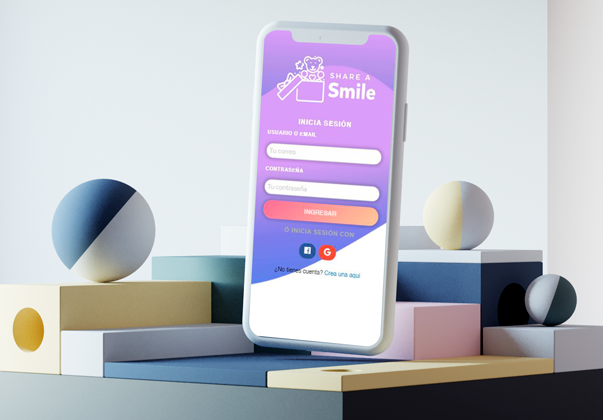
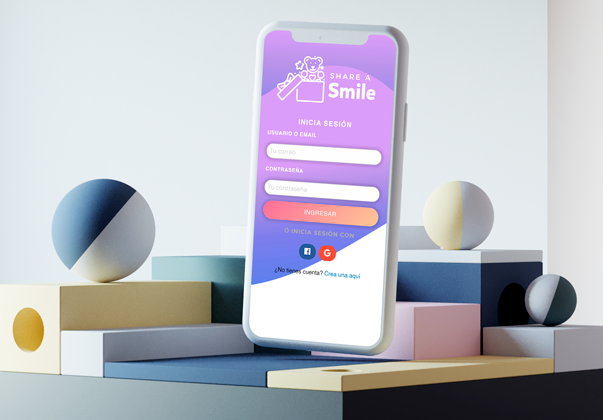
fix ortography and change images quality

diff --git a/src/Home/Projects.js b/src/Home/Projects.js
@@ -1,7 +1,6 @@
 import React from 'react';
 import './styles/projects.css';
-import {scroll} from './Images/scroll.png'
-//import ImagesButton from './ImagesButton'
+//import {scroll} from './Images/scroll.png'
 import ImagesWhite from './ImagesWhite'
 import ImagesColor from './ImagesColor'
 
@@ -23,7 +22,7 @@ export class Projects extends React.Component {
           />
  
             <ImagesColor
-            backgroundColor = "project-container-info share-smile"
+            backgroundColor = "project-container-info hide share-smile"
             idBtn="share-image"
             titleProject="SHARE A SMILE "
             descriptionProject="What happens with children's items when they grow up? This is a social media web-app focus on
@@ -42,7 +41,7 @@ export class Projects extends React.Component {
           />
 
             <ImagesColor
-            backgroundColor = "project-container-info il-piccolo"
+            backgroundColor = "project-container-info hide il-piccolo"
             idBtn="il-piccolo-image"
             titleProject="IL PICCOLO"
             descriptionProject="The Italian restaurant “Il Piccolo” needed a web app for its personal, to take the orders and shows in

diff --git a/src/Home/styles/projects.css b/src/Home/styles/projects.css
@@ -88,7 +88,7 @@
 }
 
 #share-image {
-  background-image: url("../Images/share-smile-home.png");
+  background-image: url("../Images/share-smile.png");
   background-size: cover;
   width: 100%;
   /* background-repeat: no-repeat; */
@@ -111,5 +111,6 @@
 #foodmap-image {
   background-image: url("../Images/foodmap-gif.gif");
   background-size: contain;
+  background-repeat: no-repeat;
   width: 100%;
 }

diff --git a/src/Home/styles/home.css b/src/Home/styles/home.css
@@ -41,11 +41,16 @@
 
   .project-container-info {
     height: 36rem;
+    box-shadow: 0px 4px 4px rgba(0, 0, 0, 0.25);
+    padding: 2rem 0rem;
   }
 
   .project-images {
     width: 100%;
     height: 40%;
+  }
+  .hide {
+    display: none;
   }
 
   .project-text {

diff --git a/src/Home/Nav.js b/src/Home/Nav.js
@@ -18,7 +18,7 @@ export class Nav extends React.Component {
           </a>
  
           <a className="header-nav-a" href="#know-me">
-            KNOM ME
+            KNOW ME
           </a> 
           
           <a className="header-nav-a" href="#contact">
